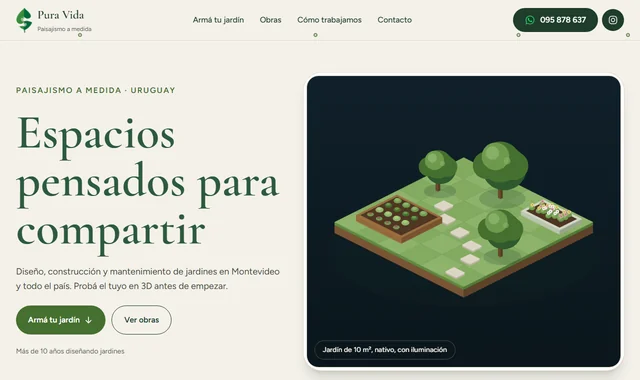
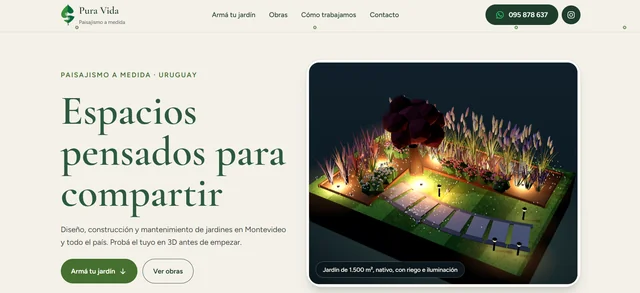
feat: portada nueva de Pura Vida Paisajismo (render 3D nocturno)

diff --git a/index.html b/index.html
@@ -1077,7 +1077,7 @@
 
         <div class="project-card" data-category="frontend">
           <div class="project-img" style="position:relative;overflow:hidden;">
-            <img src="img/pura-vida-paisajismo.webp" width="640" height="380" loading="lazy" decoding="async" alt="Captura de Pura Vida Paisajismo" data-alt-en="Screenshot of Pura Vida Paisajismo" data-alt-es="Captura de Pura Vida Paisajismo" style="width:100%;height:100%;object-fit:cover;object-position:top;transition:transform 0.4s;">
+            <img src="img/pura-vida-paisajismo.webp" width="640" height="293" loading="lazy" decoding="async" alt="Captura de Pura Vida Paisajismo" data-alt-en="Screenshot of Pura Vida Paisajismo" data-alt-es="Captura de Pura Vida Paisajismo" style="width:100%;height:100%;object-fit:cover;object-position:top;transition:transform 0.4s;">
             <span style="position:absolute;top:0.75rem;left:0.75rem;background:rgba(0,0,0,0.65);border:1px solid rgba(255,255,255,0.12);border-radius:100px;padding:0.2rem 0.65rem;font-size:0.7rem;color:#38bdf8;backdrop-filter:blur(8px);">Frontend</span>
           </div>
           <div class="project-body">
